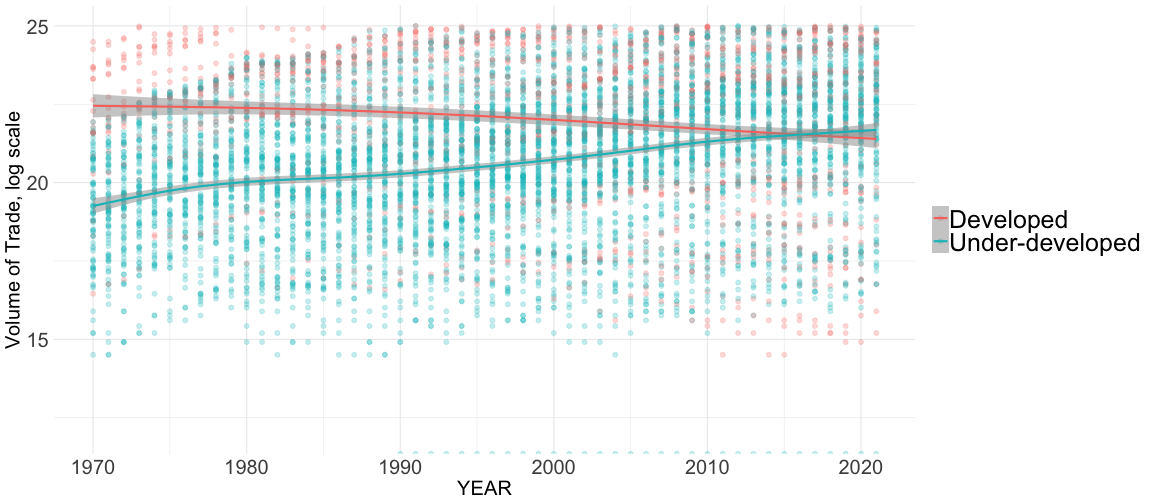
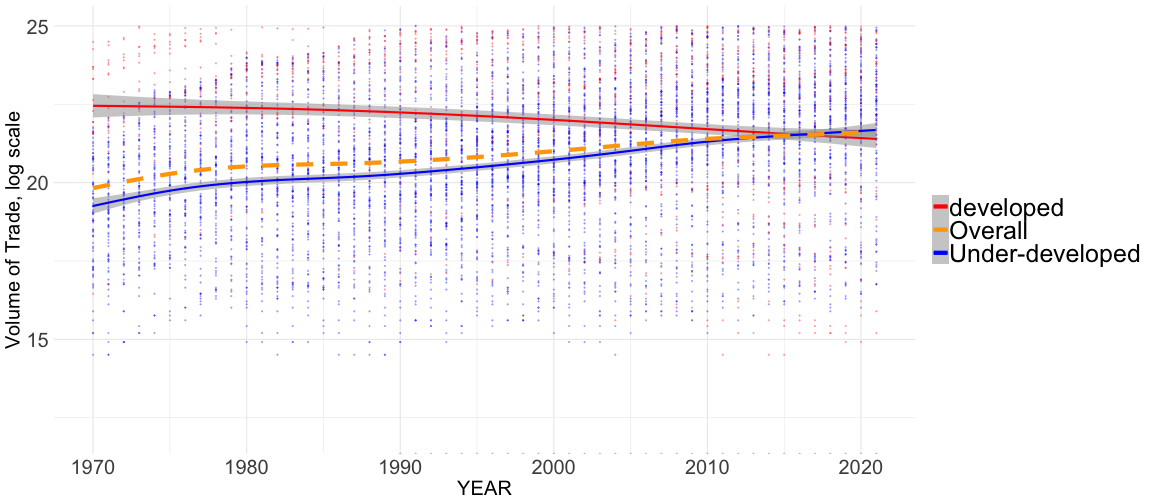
update

diff --git a/GLOA610-deglobalization.html b/GLOA610-deglobalization.html
@@ -21,40 +21,34 @@
 class: center, middle, inverse
 background-image: url(https://github.com/textvulture/textvulture.github.io/blob/master/images/cloudBackground.jpg?raw=true)
 
-# .HUGE[**.red[de].yellow[globalization?]**]
+# .HUGE[**.red[De].yellow[globalization?]**]
 
 # .times[**GLOA 610**]
 
 ---
-  
 
+class: inverse
+background-image: url(https://github.com/textvulture/textvulture.github.io/blob/master/images/factoryBackground1.png?raw=true)
+background-size: 100%
 
-# Has the volume of .red[trade] been shrinking?
+# .Large[**What we're talking about**] (.tiny[in terms of .bluey[economic] globalization]):
 
-![](GLOA610-deglobalization_files/figure-html/unnamed-chunk-2-1.png)&lt;!-- --&gt;
+--
+&lt;br&gt;
 
----
-# .bluey[Migrants]?
-
-![](GLOA610-deglobalization_files/figure-html/unnamed-chunk-3-1.png)&lt;!-- --&gt;
-
----
-
-# .orange[Tariff?] .green[Tourism?]
-
-![](GLOA610-deglobalization_files/figure-html/unnamed-chunk-4-1.png)&lt;!-- --&gt;
-
----
-
-class: inverse, center, middle
-background-image: url(https://github.com/textvulture/textvulture.github.io/blob/master/images/forestBackground3.jpg?raw=true)
-background-size: fill
-
-# .LARGE[**So what's all the fuss about?**]
+## - any indications of shriking interactions? (#.pink[volume])
 
 --
 
-# .times[Or, are we looking at .red[wrong] indicators?]
+## - any signs of worsening sentiments or signs? (#.pink[migrants])
+
+--
+
+## - or is it a challenge to the West-led global order (#.pink[China] #.pink[finance])?
+
+--
+
+## - or something else? (#.pink[reshoring])
 
 ---
 
@@ -106,6 +100,50 @@ A .Yellow[**process**] of increasing and intensifying .violet[**connectivity**] 
 ]
 
 ---
+  
+
+
+# Has the volume of .red[trade] been shrinking? &lt;br&gt; .tiny[(developed: GDPpc &gt; USD 10k)]
+
+![](GLOA610-deglobalization_files/figure-html/unnamed-chunk-2-1.png)&lt;!-- --&gt;
+
+---
+# .Blue[Migrants]?
+
+![](GLOA610-deglobalization_files/figure-html/unnamed-chunk-3-1.png)&lt;!-- --&gt;
+
+---
+
+# .orange[Tariff?] .green[Tourism?]
+
+![](GLOA610-deglobalization_files/figure-html/unnamed-chunk-4-1.png)&lt;!-- --&gt;
+
+---
+
+## But maybe global econ institutions aren't relied upon .pink[anymore]?
+
+--
+
+### - Use of .Blue[WTO Dispute Settlement Mechanism] (source: WTO)
+
+.center[
+![](https://www.wto.org/images/img_dsb/dispustatschart8_e.png)
+]
+
+---
+
+class: inverse, center, middle
+background-image: url(https://github.com/textvulture/textvulture.github.io/blob/master/images/forestBackground3.jpg?raw=true)
+background-size: fill
+
+# .LARGE[**So what's all the fuss about?**]
+
+--
+
+# .times[Or, are we looking at .red[wrong] indicators?]
+
+---
+
 background-image: url(https://ichef.bbci.co.uk/news/640/cpsprodpb/636C/production/_109625452_eu_far_right_map_010519_map640-nc.png)
 background-size: 30%
 background-position: right
@@ -145,7 +183,7 @@ background-position: right
   - .large['superstar' firms and automation]
 
 --
-  - .large[freed conservative govts to go anti-immigration]
+  - .large[allows conservative/populist govts to go anti-immigration]
 
 --
 
@@ -158,11 +196,7 @@ class: inverse, center, middle
 background-image: url(https://github.com/textvulture/textvulture.github.io/blob/master/images/wayBackground2.jpg?raw=true)
 background-size: cover
 
-# But maybe it's not just the .yellow[sentiment] or .yellow[right-wing politics]
-
---
-
-# .huge[Deglobalization **.red[from within]**]
+# Maybe there are some signs of .yellow[stress] to the system, though.
 
 ---
 class: inverse
@@ -191,7 +225,7 @@ background-size: cover
 class: inverse
 background-color: black
 
-# .large[Wait, did he say **.bluey[financial globalization?]**] &lt;br&gt; .small['Cause I hear the .red[crumbling sounds!!]] (.tiny[spoiler: Brawley 2021])
+# .large[Wait, did he say **.bluey[financial globalization?]**] &lt;br&gt; .small['Cause I hear the .red[crumbling sounds!!]]
 
 --
 
@@ -307,6 +341,22 @@ counter .red[Chinese] growth on the tech fields
 --
 
 ### <svg aria-hidden="true" role="img" viewBox="0 0 640 512" style="height:1em;width:1.25em;vertical-align:-0.125em;margin-left:auto;margin-right:auto;font-size:inherit;fill:yellow;overflow:visible;position:relative;"><path d="M543.1 128.2l.0002 223.8c0 17.62 14.25 31.99 31.1 31.99h64V128.1L543.1 128.2zM591.1 352c-8.75 0-16-7.251-16-15.99c0-8.875 7.25-15.1 16-15.1c8.75 0 15.1 7.122 15.1 15.1C607.1 344.8 600.7 352 591.1 352zM.0005 128.2v255.7l63.1 .0446c17.75 0 32-14.28 32-32.03L96 171.9l-55.77-43.71H.0005zM64 336c0 8.742-7.25 15.99-15.1 15.99s-15.1-7.251-15.1-15.99c0-8.875 7.25-15.1 15.1-15.1S64 327.2 64 336zM128 351.8h18.25l90.5 81.85c27.5 22.37 67.75 18.12 89.1-9.25l18.12 15.25c15.87 12.1 39.37 10.5 52.37-5.371l13.02-16.03L128 196.1V351.8zM495.2 362.8c-.1875-9.101-3.824-18.05-11.44-24.24l-149.2-121.1l-11.47 10.51L297.5 207.9l65.33-59.79c6.5-5.871 16.75-5.496 22.62 1c5.1 6.496 5.5 16.62-1 22.62l-26.12 23.87l145.6 118.1c2.875 2.496 5.5 4.996 7.875 7.742V127.1c-40.98-40.96-96.52-63.98-154.5-63.98h-8.613c-7.941 0-15.64 2.97-21.5 8.329L233.7 157.9L208.3 137.9l80.85-73.92L282.5 64c-43.47 0-85.16 13.68-120.8 37.45L38.81 5.109C34.41 1.672 29.19 0 24.03 0C16.91 0 9.846 3.156 5.127 9.187C-3.06 19.62-1.248 34.72 9.19 42.89l591.1 463.1c10.5 8.203 25.56 6.328 33.69-4.078c8.187-10.44 6.375-25.53-4.062-33.7L495.2 362.8z"/></svg> A complete departure from 90s' globalization?
+
+---
+
+## But what about things that .red[cannot] be reshored? (e.g., .blue[cobalt]) (1)
+
+--
+
+.center[
+![](https://www.ft.com/__origami/service/image/v2/images/raw/https%3A%2F%2Fd6c748xw2pzm8.cloudfront.net%2Fprod%2F7ccc7460-bf56-11ed-8d24-1df0c5b816c1-standard.png?dpr=1&amp;fit=scale-down&amp;quality=highest&amp;source=next&amp;width=700)]
+
+---
+
+## But what about things that .red[cannot] be reshored? (e.g., .blue[cobalt]) (2)
+
+.center[
+![](https://www.ft.com/__origami/service/image/v2/images/raw/https%3A%2F%2Fd6c748xw2pzm8.cloudfront.net%2Fprod%2F560a8e10-be8a-11ed-b917-cbe2aff3902c-standard.png?dpr=1&amp;fit=scale-down&amp;quality=highest&amp;source=next&amp;width=700)]
     </textarea>
 <style data-target="print-only">@media screen {.remark-slide-container{display:block;}.remark-slide-scaler{box-shadow:none;}}</style>
 <script src="https://remarkjs.com/downloads/remark-latest.min.js"></script>
